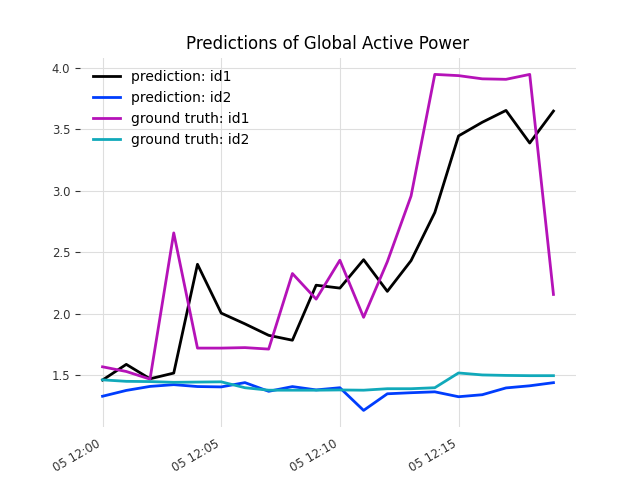
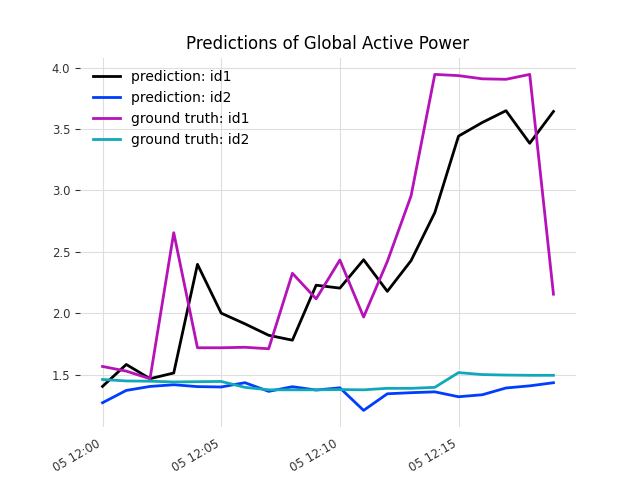
Include future covariates for modeling

diff --git a/src/models/train_and_predict.py b/src/models/train_and_predict.py
@@ -4,6 +4,7 @@ import cloudpickle
 import matplotlib.pyplot as plt
 import pandas as pd
 from darts import concatenate
+from darts.metrics import mape
 from darts.models import RegressionModel
 from darts.timeseries import TimeSeries
 
@@ -45,6 +46,16 @@ def main():
     # Separate target and keep the features in loaded_train, test
     train_target = loaded_train[[target_column, series_id]].copy()
     train_covariates = loaded_train.drop(columns=[target_column])
+    future_covariates_columns = [
+        x
+        for x in train_covariates.columns
+        if "__DeriveDatetime__" in x and x != series_id
+    ]
+    past_covariates_columns = [
+        x
+        for x in train_covariates.columns
+        if "__DeriveDatetime__" not in x and x != series_id
+    ]
     test_target = test[[target_column, series_id]].copy()
     test_covariates = test.drop(columns=[target_column])
 
@@ -60,24 +71,47 @@ def main():
     train_target_timeseries = [
         TimeSeries.from_series(series) for series in train_target_list
     ]
-    train_covariates_list = [x.drop(columns=series_id) for _, x in loaded_train_groupby]
-    train_covariates_timeseries = [
-        TimeSeries.from_dataframe(df) for df in train_covariates_list
+    train_past_covariates_list = [
+        x.drop(columns=series_id)[past_covariates_columns]
+        for _, x in loaded_train_groupby
+    ]
+    train_past_covariates_timeseries = [
+        TimeSeries.from_dataframe(df) for df in train_past_covariates_list
+    ]
+    train_future_covariates_list = [
+        x.drop(columns=series_id)[future_covariates_columns]
+        for _, x in loaded_train_groupby
+    ]
+    train_future_covariates_timeseries = [
+        TimeSeries.from_dataframe(df) for df in train_future_covariates_list
     ]
 
     # Prepend data to provide sufficient history for test
     history_count = 1
     predict_count = 20
-    test_covariates_list = [
-        x.drop(columns=series_id) for _, x in test_covariates_groupby
+    test_past_covariates_list = [
+        x.drop(columns=series_id)[past_covariates_columns]
+        for _, x in test_covariates_groupby
     ]
-    test_covariates_list = [
+    test_past_covariates_list = [
         pd.concat([x.tail(history_count), y])
-        for x, y in zip(train_covariates_list, test_covariates_list)
+        for x, y in zip(train_past_covariates_list, test_past_covariates_list)
     ]
-    test_covariates_timeseries = [
-        TimeSeries.from_dataframe(df) for df in test_covariates_list
+    test_past_covariates_timeseries = [
+        TimeSeries.from_dataframe(df) for df in test_past_covariates_list
     ]
+    test_future_covariates_list = [
+        x.drop(columns=series_id)[future_covariates_columns]
+        for _, x in test_covariates_groupby
+    ]
+    test_future_covariates_list = [
+        pd.concat([x.tail(history_count), y])
+        for x, y in zip(train_future_covariates_list, test_future_covariates_list)
+    ]
+    test_future_covariates_timeseries = [
+        TimeSeries.from_dataframe(df) for df in test_future_covariates_list
+    ]
+
     # ground truth
     test_target_list = [
         x.head(predict_count).drop(columns=series_id) for _, x in test_target_groupby
@@ -87,19 +121,34 @@ def main():
     ]
 
     regr_model = RegressionModel(
-        lags=None, lags_past_covariates=history_count, lags_future_covariates=None
+        lags=None,
+        lags_past_covariates=history_count,
+        lags_future_covariates=[0],
     )
     regr_model.fit(
         series=train_target_timeseries,
-        past_covariates=train_covariates_timeseries,
-        future_covariates=None,
+        past_covariates=train_past_covariates_timeseries,
+        future_covariates=train_future_covariates_timeseries,
     )
 
     predictions = regr_model.predict(
         n=predict_count,
         series=train_target_timeseries,
-        past_covariates=test_covariates_timeseries,
+        past_covariates=test_past_covariates_timeseries,
+        future_covariates=test_future_covariates_timeseries,
     )
+    print(
+        "MAPE score for prediction of id1: {}".format(
+            mape(predictions[0], test_target_timeseries[0])
+        )
+    )
+    print(
+        "MAPE score for prediction of id2: {}".format(
+            mape(predictions[1], test_target_timeseries[1])
+        )
+    )
+
+    # Plot the chart
     pred_actual = concatenate(predictions + test_target_timeseries, axis="component")
     pred_actual.plot()
     legend_text = ["prediction: " + x for x in group_keys] + [
